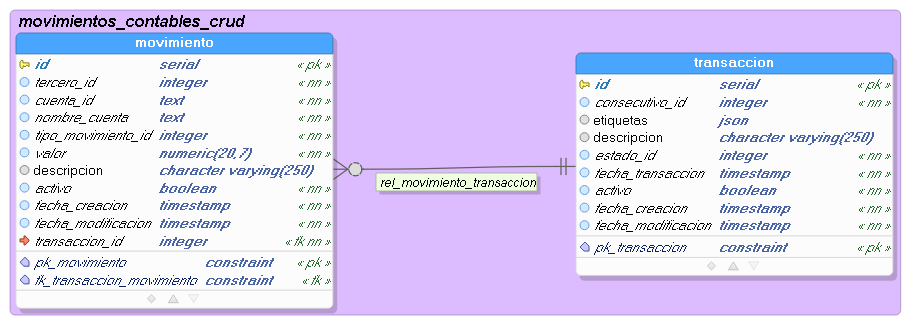
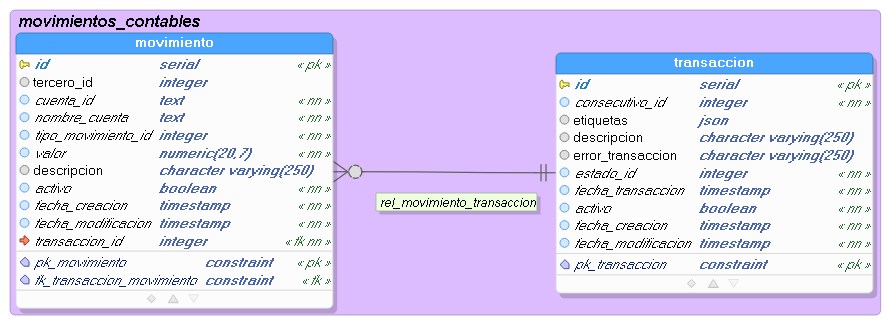
fix: junto con @JocoolQ se realizan ajustes en modelo de base de datos #2

diff --git a/models/transaccion.go b/models/transaccion.go
@@ -15,6 +15,7 @@ type Transaccion struct {
 	ConsecutivoId     int       `orm:"column(consecutivo_id)"`
 	Etiquetas         string    `orm:"column(etiquetas);type(json);null"`
 	Descripcion       string    `orm:"column(descripcion);null"`
+	ErrorTransaccion  string    `orm:"column(error_transaccion);null"`
 	EstadoId          int       `orm:"column(estado_id)"`
 	FechaTransaccion  time.Time `orm:"column(fecha_transaccion);type(timestamp without time zone)"`
 	Activo            bool      `orm:"column(activo)"`

diff --git a/models/movimiento.go b/models/movimiento.go
@@ -11,7 +11,7 @@ import (
 
 type Movimiento struct {
 	Id                int          `orm:"column(id);pk;auto"`
-	TerceroId         int          `orm:"column(tercero_id)"`
+	TerceroId         int          `orm:"column(tercero_id);null"`
 	CuentaId          string       `orm:"column(cuenta_id)"`
 	NombreCuenta      string       `orm:"column(nombre_cuenta)"`
 	TipoMovimientoId  int          `orm:"column(tipo_movimiento_id)"`
